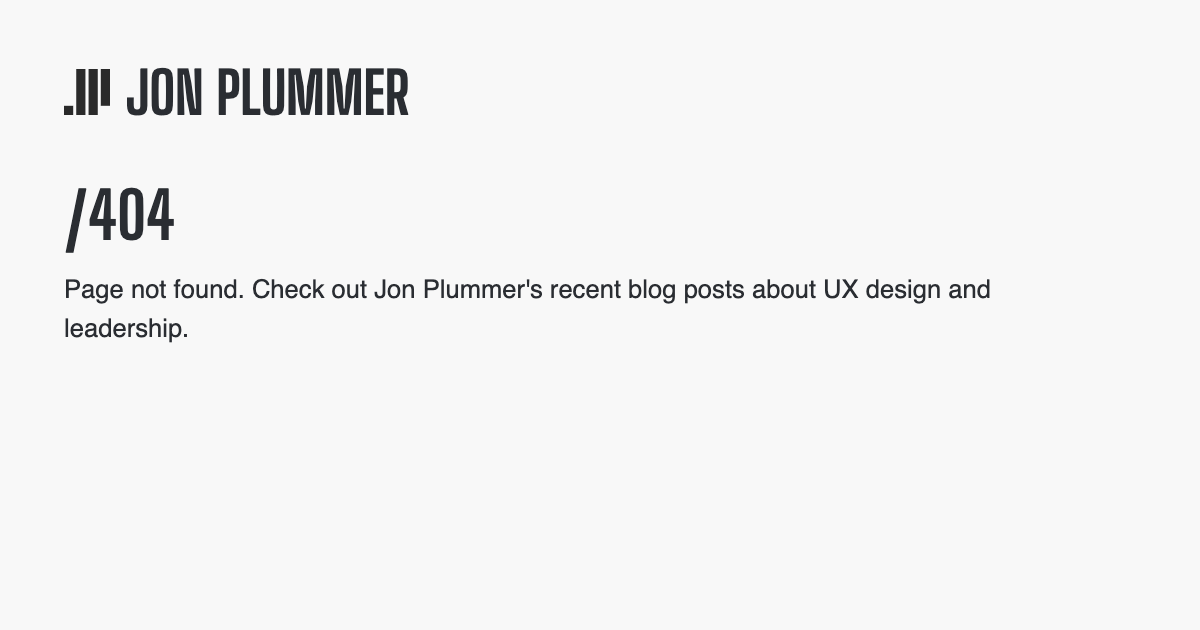
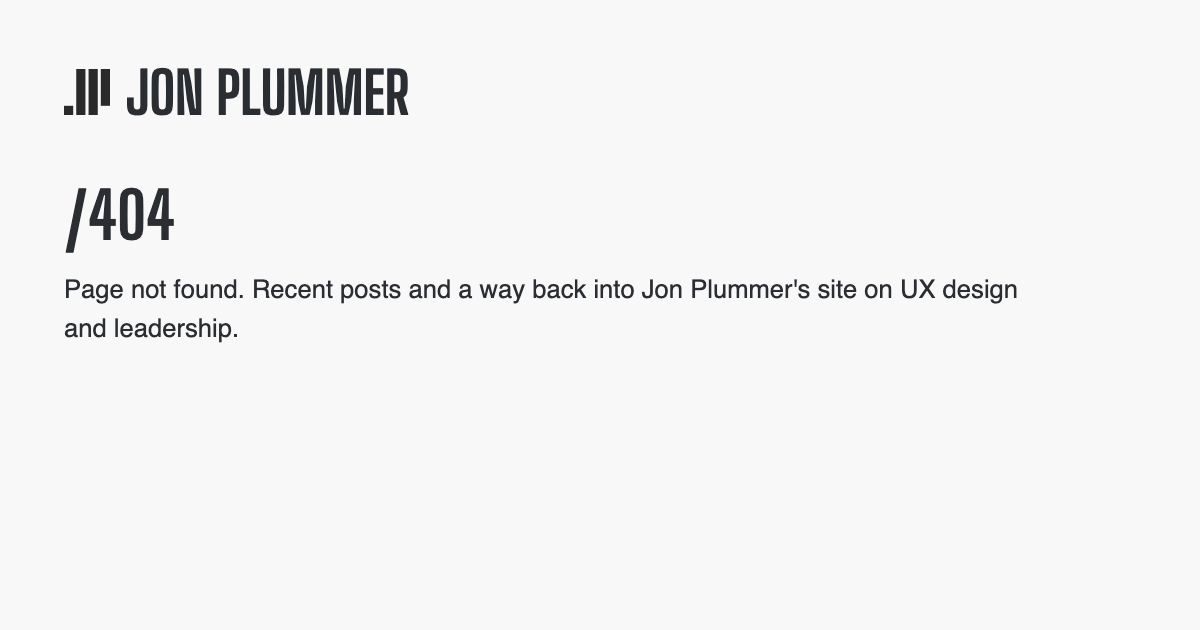
Fix the 404's stale post list and cut its redundant links
Eleventy sorts collections oldest-first, so `collections.post | limit(5)`
on 404 and 500 listed the five oldest posts on the site - four of them
from November 2020. Every other template already pipes through `reverse`
first; these two never did.

The bullets rendered as a loose list because of a blank line inside the
loop, and that blank line was there to satisfy markdownlint's MD032,
which wants blank lines around a list. Whitespace control fixes the
rendering and reintroduces the lint failure, so emit a real `<ul>` from
the template instead. MD033 is already off, and titles now run through
`smartquotes | striptags` to match post_content.njk.

Cut the "More information" block from 404: it offered About and Now,
which the site nav above and the footer nav below both already carry,
and "start from the top" was a fourth route home. In their place, ask
the visitor to report the broken link, since until a suggester exists
they are the only one who knows what they were after. Trim 500 to two
sentences and drop its post list - the useful action on a server error
is to reload, and a browse list argues against that.

Both descriptions changed, but generate-og-images skips any file whose
`ogImage` is a literal path and whose PNG exists, before it checks
whether the source data moved. The cards had to be deleted to rebuild,
and still said "on our end" until they were.

Point schema.org's Person.email at jon@, the address about.md and
[…]

Changed region(s): [[0.2158, 0.4222, 0.8633, 0.4825], [0.0308, 0.5127, 0.2158, 0.5429]]

diff --git a/src/404.md b/src/404.md
@@ -2,23 +2,19 @@
 layout: base.njk
 permalink: /404.html
 title: /404
-description: Page not found. Check out Jon Plummer's recent blog posts about UX design and leadership.
+description: Page not found. Recent posts and a way back into Jon Plummer's site on UX design and leadership.
 tags: page
 purpose: 404
 ogImage: /assets/images/og/404.html.png
 ---
-It looks like nothing was found at this location. Maybe try one of the links below?
+There's nothing at this address. It may have moved, or it may never have existed.
 
 ## Recent posts
 
-{% for post in collections.post | limit(5) %}
+<ul>
+{%- for post in collections.post | reverse | limit(5) %}
+  <li><a href="{{ post.url }}">{{ post.data.title | smartquotes | striptags }}</a></li>
+{%- endfor %}
+</ul>
 
-- [{{ post.data.title }}]({{ post.url }})
-{% endfor %}
-
-## More information
-
-- [About me](/about/)
-- [Now](/now/)
-
-Or, [start from the top.](/)
+If a broken link sent you here, I'd be glad to know about it. [Drop me a note](mailto:me@jonplummer.com?subject=A%20broken%20link%20sent%20me%20to%20jonplummer.com) and I'll fix it.

diff --git a/src/500.md b/src/500.md
@@ -2,21 +2,9 @@
 layout: base.njk
 permalink: /500.html
 title: /500
-description: Server error. Something went wrong on our end.
+description: Server error. Something went wrong on Jon Plummer's end, not yours.
 tags: page
 purpose: 500
 ogImage: /assets/images/og/500.html.png
 ---
-Oops! Something went wrong on our end. We're working to fix this issue.
-
-In the meantime, you can:
-
-- [Go back to the homepage](/)
-- [Learn more about this site](/about/)
-
-## Recent posts
-
-{% for post in collections.post | limit(5) %}
-
-- [{{ post.data.title }}]({{ post.url }})
-{% endfor %}
+Something went wrong on my end, not yours. Waiting a minute and reloading is usually enough, and if it keeps happening I'd like to hear about it – [drop me a note](mailto:me@jonplummer.com?subject=jonplummer.com%20is%20throwing%20a%20500).
